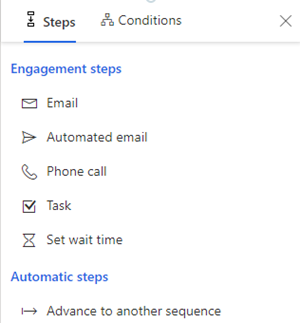
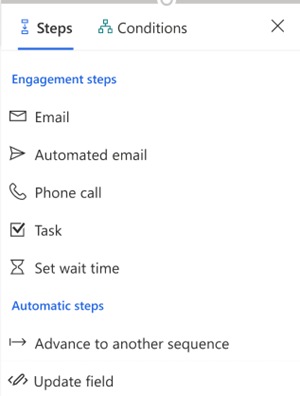
added update field step

Changed region(s): [[0.0, 0.0, 1.0, 1.0]]

diff --git a/ai-docs/sales/create-and-activate-a-sequence.md b/ai-docs/sales/create-and-activate-a-sequence.md
@@ -28,86 +28,18 @@ Every organization has its own selling processes for sellers to follow. A sequen
     | Description | A description of the sequence. (Optional) |
     | Entity | The entity type for which you want to apply this sequence. By default, the Lead entity type is selected. |   
 6. Select **Next**.   
-7. Choose and configure one of the following steps:   
+7. Choose and configure one of the following steps:      
+    - [Email activity](#email-activity)
+    - [Automated email activity](#automated-email-activity)
+    - [Phone call activity](#phone-call-activity)
+    - [Task activity](#task-activity)
+    - [Set wait time](#set-wait-time)
+    - [Advance to another sequence](#advance-to-another-sequence)
+    - [Update field](#update-field)
+    
     > [!div class="mx-imgBorder"]
     > ![Choose an activity type](media/sequence-choose-activity.png "Choose an activity type")       
-    - **Email**: Creates an email activity for sellers to communicate with customers. When this activity is shown to the seller, an envelope icon is displayed on the record. When a seller selects the icon, an email composer opens with a template, if one was selected. If no template was selected, an empty email composer opens.  
-       > [!div class="mx-imgBorder"]
-       > ![Add an email activity](media/sequence-activity-add-email.png "Add an email activity")    
-
-       Enter the following information to configure the email activity, and then select **Save**:   
-       1. A name and description for the activity. The information you enter here will be displayed to sellers.   
-       2. (Optional) If templates are available for your organization, in the **Assign email template** box, select the template you want to assign for this step. To know more about email templates, see the step to [add email template](#automated-email) in the **Automated email** section.  
-
-          > [!div class="mx-imgBorder"]
-          > ![Example email activity](media/sequence-activity-email-created.png "Example email activity")   
-
-        You can define conditions for an email activity to determine the branch that the sequence moves to as the next step. More information: [Define conditions for email activity](adaptive-sequence.md#define-conditions-for-email-activity)      
-
-    - **Automated email**: Creates an automated email activity for sellers to communicate with customers. When this activity is shown to the seller, a send icon ![Send icon](media/send-icon.png "Send icon") is displayed on the record. The email is automatically sent to the customer based on the selected template.    
-        >[!TIP]
-        >Add a **Set wait time** activity before the **Automated email** activity. Adding wait time provides a time gap between the previous step and sending the automated email. If the time gap isn't configured, the automated email will be sent immediately after the previous activity is completed, which won't give sellers the time they might need to take action on the automated email activity.    
-
-        >[!NOTE]
-        >- Verify that required email templates are created in your organization. More information: [Create templates for email](/power-platform/admin/create-templates-email)   
-        >- Configure [the email engagement feature](configure-email-engagement.md) in your organization before you start using the automated email step.
-
-        > [!div class="mx-imgBorder"]
-        > ![Add an automated email activity](media/sequence-activity-add-automated-email.png "Add an automated email activity")   
-
-        Enter the following information to configure the automated email activity, and then select **Save**:    
-        -	A name and description for the activity. The information you enter here will be displayed to sellers.
-        -	<a name=automated-email></a>An email template that you want to assign for this step. 
-            1. Select **Add email template**. 
-            2. In the **Email templates** dialog, select the language and then choose a template. When a template is chosen, you can see the preview.     
-                > [!div class="mx-imgBorder"]
-                > ![Choose an email template](media/sequence-activity-automated-email-choose-template.png "Choose an email template")     
-            3. Select **Apply template**.   
-                The template is selected step is created as displayed in the following example image.   
-                > [!div class="mx-imgBorder"]
-                > ![Example automated email activity](media/sequence-activity-automated-email-created.png "Example automated email activity")   
-                
-                >[!NOTE]
-                >You can also view the preview of selected email template on the created step. Select the preview icon ![Automated email template preview icon](media/sequence-activity-automated-email-preview-icon.png "Automated email template preview icon").
-
-        You can define conditions for automated email activity to determine the branch that sequence moves to next step. More information: [Define conditions for email activity](adaptive-sequence.md#define-conditions-for-email-activity).   
-
-    - **Phone call**: Creates a phone call activity for sellers to communicate with customers. When this activity is shown to the seller, a phone icon is displayed on the record. When sellers select the icon, a softphone appears on the app to dial the customer.    
-        > [!div class="mx-imgBorder"]
-        > ![Add a phone call activity](media/sequence-activity-add-phone-call.png "Add a phone call activity")    
-
-        Enter a name and description for the phone call activity, and then select **Save**. The information you enter here will be displayed to sellers.   
-        > [!div class="mx-imgBorder"]
-        > ![Example phone call activity](media/sequence-activity-phone-call-created.png "Example phone call activity")    
-
-        You can define conditions for phone call activity to determine the branch that sequence moves to next step. More information: [Define conditions for phone call activity](adaptive-sequence.md#define-conditions-for-phone-call-activity).      
-    - **Task**: Creates a custom activity that you define&mdash;such as scheduling a meeting with the customer&mdash;that isn't specified in the activity selector.   
-        > [!div class="mx-imgBorder"]
-        > ![Add a custom task activity](media/sequence-activity-add-task.png "Add a custom task activity")    
-
-        Enter the name and description of the custom activity, and then select **Save**. The information you enter here will be displayed to sellers.   
-        > [!div class="mx-imgBorder"]
-        > ![Example task activity](media/sequence-activity-task-created.png "Example task activity")   
-    - **Set wait time**: Specifies the interval between activities&mdash;that is, after an activity is completed and before the next activity occurs&mdash;during which sellers need to wait. A sequence can't end with this activity.    
-        When this activity is shown to sellers on a record, they don't need to perform any action; they simply need to wait until the wait time expires before they perform the next activity.   
-        > [!div class="mx-imgBorder"]
-        > ![Set wait time](media/sequence-activity-add-set-wait-time.png "Set wait time")   
-
-        Choose the duration in days and hours that you want sellers to wait before they perform the next activity, and then select **Save**. The maximum wait time is 30 days.   
-        > [!div class="mx-imgBorder"]
-        > ![Example wait time](media/sequence-activity-set-wait-time-created.png "Example wait time")   
-
-    - **Advance to another sequence**: Transfers the sequence control from the current sequence to the selected sequence. For example, you defined a sequence **S1** and attached a sequence **S2** after an initial activity of sending an introduction email. when **S1** is attached to a record and seller completes the initial task of sending an introduction email, the record starts displaying the activities defined in **S2**. The following are the considerations to use this activity:   
-        - A sequence can't start with this activity
-        - Other steps can't be added after this activity
-
-        > [!div class="mx-imgBorder"]
-        > ![Advance to another sequence activity](media/sequence-activity-advance-to-another-sequence.png "Advance to another sequence activity")        
-
-        From the **Connect to** list, choose a sequence to attach. The list consists of the sequences that are active and related to the record type. Select **Save** and the activity is created.
-        > [!div class="mx-imgBorder"]
-        > ![Example for advance to another sequence activity](media/sequence-activity-advance-to-another-sequence-created.png "Example for advance to another sequence activity")       
-
+    
 8. Select the **Add** icon, and then repeat step 7 for all the activities that you want to add to the sequence.    
 9. Select **More options** in the upper-right corner of the page, and then select **Save**.    
 10. Select **More options** again, and then select **Activate** to activate the sequence.   
@@ -116,11 +48,112 @@ Every organization has its own selling processes for sellers to follow. A sequen
 11. Select **Yes** in the confirmation message that appears.   
     > [!NOTE]
     > An error might occur if you've added **Set wait time** as the last activity of the sequence. You must delete this last **Set wait time** activity, and then save and activate the sequence.       
+
     The sequence is activated and listed in the sequence designer home page.   
     > [!div class="mx-imgBorder"]
     > ![Sequence designer home page](media/sequence-home-page.png "Sequence designer home page")    
 
 Next, you connect the active sequence to lead or opportunity records. More information: [Connect a sequence to records](connect-a-sequence-to-records.md)
+
+## Email activity  
+Creates an email activity for sellers to communicate with customers. When this activity is shown to the seller, an envelope icon is displayed on the record. When a seller selects the icon, an email composer opens with a template, if one was selected. If no template was selected, an empty email composer opens.  
+> [!div class="mx-imgBorder"]
+> ![Add an email activity](media/sequence-activity-add-email.png "Add an email activity")    
+
+Enter the following information to configure the email activity, and then select **Save**:   
+   1. A name and description for the activity. The information you enter here will be displayed to sellers.   
+   2. (Optional) If templates are available for your organization, in the **Assign email template** box, select the template you want to assign for this step. To know more about email templates, see the step to [add email template](#automated-email) in the **Automated email** section.  
+        > [!div class="mx-imgBorder"]
+        > ![Example email activity](media/sequence-activity-email-created.png "Example email activity")   
+
+You can define conditions for an email activity to determine the branch that the sequence moves to as the next step. More information: [Define conditions for email activity](adaptive-sequence.md#define-conditions-for-email-activity)      
+
+## Automated email activity   
+Creates an automated email activity for sellers to communicate with customers. When this activity is shown to the seller, a send icon ![Send icon](media/send-icon.png "Send icon") is displayed on the record. The email is automatically sent to the customer based on the selected template.     
+>[!TIP]
+>Add a **Set wait time** activity before the **Automated email** activity. Adding wait time provides a time gap between the previous step and sending the automated email. If the time gap isn't configured, the automated email will be sent immediately after the previous activity is completed, which won't give sellers the time they might need to take action on the automated email activity.    
+
+>[!NOTE]
+>- Verify that required email templates are created in your organization. More information: [Create templates for email](/power-platform/admin/create-templates-email)   
+>- Configure [the email engagement feature](configure-email-engagement.md) in your organization before you start using the automated email step.
+
+> [!div class="mx-imgBorder"]
+> ![Add an automated email activity](media/sequence-activity-add-automated-email.png "Add an automated email activity")   
+
+Enter the following information to configure the automated email activity, and then select **Save**:    
+-	A name and description for the activity. The information you enter here will be displayed to sellers.
+-	<a name=automated-email></a>An email template that you want to assign for this step. 
+    1. Select **Add email template**. 
+    2. In the **Email templates** dialog, select the language and then choose a template. When a template is chosen, you can see the preview.     
+        > [!div class="mx-imgBorder"]
+        > ![Choose an email template](media/sequence-activity-automated-email-choose-template.png "Choose an email template")     
+    3. Select **Apply template**.   
+        The template is selected step is created as displayed in the following example image.   
+        > [!div class="mx-imgBorder"]
+        > ![Example automated email activity](media/sequence-activity-automated-email-created.png "Example automated email activity")   
+                
+        >[!NOTE]
+        >You can also view the preview of selected email template on the created step. Select the preview icon ![Automated email template preview icon](media/sequence-activity-automated-email-preview-icon.png "Automated email template preview icon").
+
+You can define conditions for automated email activity to determine the branch that sequence moves to next step. More information: [Define conditions for email activity](adaptive-sequence.md#define-conditions-for-email-activity).   
+
+## Phone call activity   
+Creates a phone call activity for sellers to communicate with customers. When this activity is shown to the seller, a phone icon is displayed on the record. When sellers select the icon, a softphone appears on the app to dial the customer.    
+> [!div class="mx-imgBorder"]
+> ![Add a phone call activity](media/sequence-activity-add-phone-call.png "Add a phone call activity")    
+
+Enter a name and description for the phone call activity, and then select **Save**. The information you enter here will be displayed to sellers.   
+> [!div class="mx-imgBorder"]
+> ![Example phone call activity](media/sequence-activity-phone-call-created.png "Example phone call activity")    
+
+You can define conditions for phone call activity to determine the branch that sequence moves to next step. More information: [Define conditions for phone call activity](adaptive-sequence.md#define-conditions-for-phone-call-activity).      
+
+## Task activity  
+Creates a custom activity that you define&mdash;such as scheduling a meeting with the customer&mdash;that isn't specified in the activity selector.   
+> [!div class="mx-imgBorder"]
+> ![Add a custom task activity](media/sequence-activity-add-task.png "Add a custom task activity")    
+
+Enter the name and description of the custom activity, and then select **Save**. The information you enter here will be displayed to sellers.   
+> [!div class="mx-imgBorder"]
+> ![Example task activity](media/sequence-activity-task-created.png "Example task activity")   
+
+## Set wait time  
+Specifies the interval between activities&mdash;that is, after an activity is completed and before the next activity occurs&mdash;during which sellers need to wait. A sequence can't end with this activity.     
+When this activity is shown to sellers on a record, they don't need to perform any action; they simply need to wait until the wait time expires before they perform the next activity.   
+> [!div class="mx-imgBorder"]
+> ![Set wait time](media/sequence-activity-add-set-wait-time.png "Set wait time")   
+
+Choose the duration in days and hours that you want sellers to wait before they perform the next activity, and then select **Save**. The maximum wait time is 30 days.   
+> [!div class="mx-imgBorder"]
+> ![Example wait time](media/sequence-activity-set-wait-time-created.png "Example wait time")   
+
+## Advance to another sequence    
+Transfers the sequence control from the current sequence to the selected sequence. For example, you defined a sequence **S1** and attached a sequence **S2** after an initial activity of sending an introduction email. when **S1** is attached to a record and seller completes the initial task of sending an introduction email, the record starts displaying the activities defined in **S2**. The following are the considerations to use this activity:   
+- A sequence can't start with this activity
+- Other steps can't be added after this activity
+
+> [!div class="mx-imgBorder"]
+> ![Advance to another sequence activity](media/sequence-activity-advance-to-another-sequence.png "Advance to another sequence activity")        
+
+From the **Connect to** list, choose a sequence to attach. The list consists of the sequences that are active and related to the record type. Select **Save** and the activity is created.
+> [!div class="mx-imgBorder"]
+> ![Example for advance to another sequence activity](media/sequence-activity-advance-to-another-sequence-created.png "Example for advance to another sequence activity")    
+
+## Update field    
+Creates a step that automatically updates a record with a configured value for a field. When the activity is displayed to the seller in the record, the configured field automatically gets updated with the value. The following types of fields (including custom fields) are available for you to configure the activity:     
+-	Two Options (for example, **Do Not Email** field that contains values such as, **Allow** and **Do Not Allow**)
+-	Option Set (for example, **Budget** field that contains option set values such as, **No Committed Budget**, **May Buy**, **Can Buy**, and **Will Buy**)      
+
+You can add this activity anywhere in the sequence. When the previous activity gets completed, immediately the update field activity automatically gets executed and sequence moves on to the next activity. To avoid the update field step execute immediately after the completion previous activity, add the [Set wait time](#set-wait-time) activity before the update field step. 
+
+Also, the sellers can see the activity on the timeline of the record.
+> [!div class="mx-imgBorder"]
+> ![Example for advance to another sequence activity](media/sequence-activity-update-field.png "Example for advance to another sequence activity")  
+
+Choose a field in **Automatically update this field** and then choose a value to update the record automatically. Select **Save** and the activity is created.
+
+> [!div class="mx-imgBorder"]
+> ![Example for update field step](media/sequence-activity-update-field-created.png "Example for update field step")  
 
 ## Exit a sequence during the flow
 
